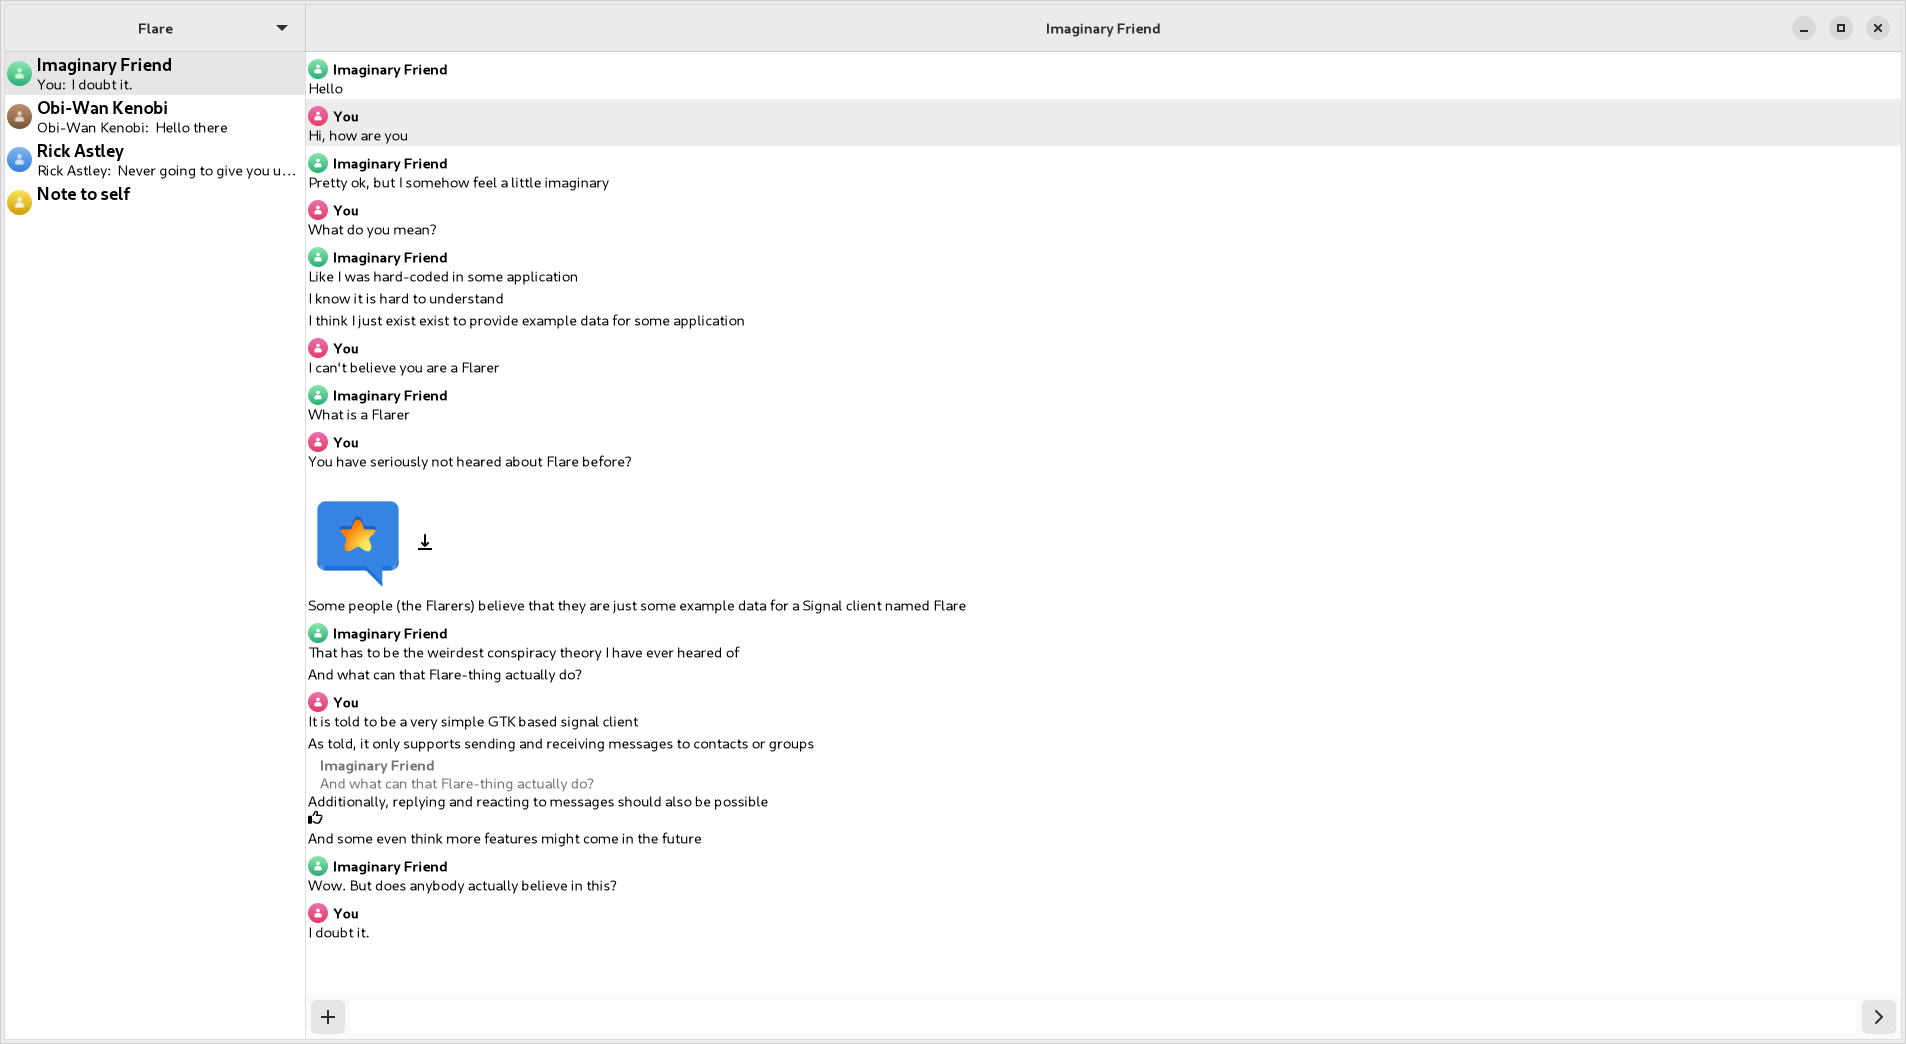
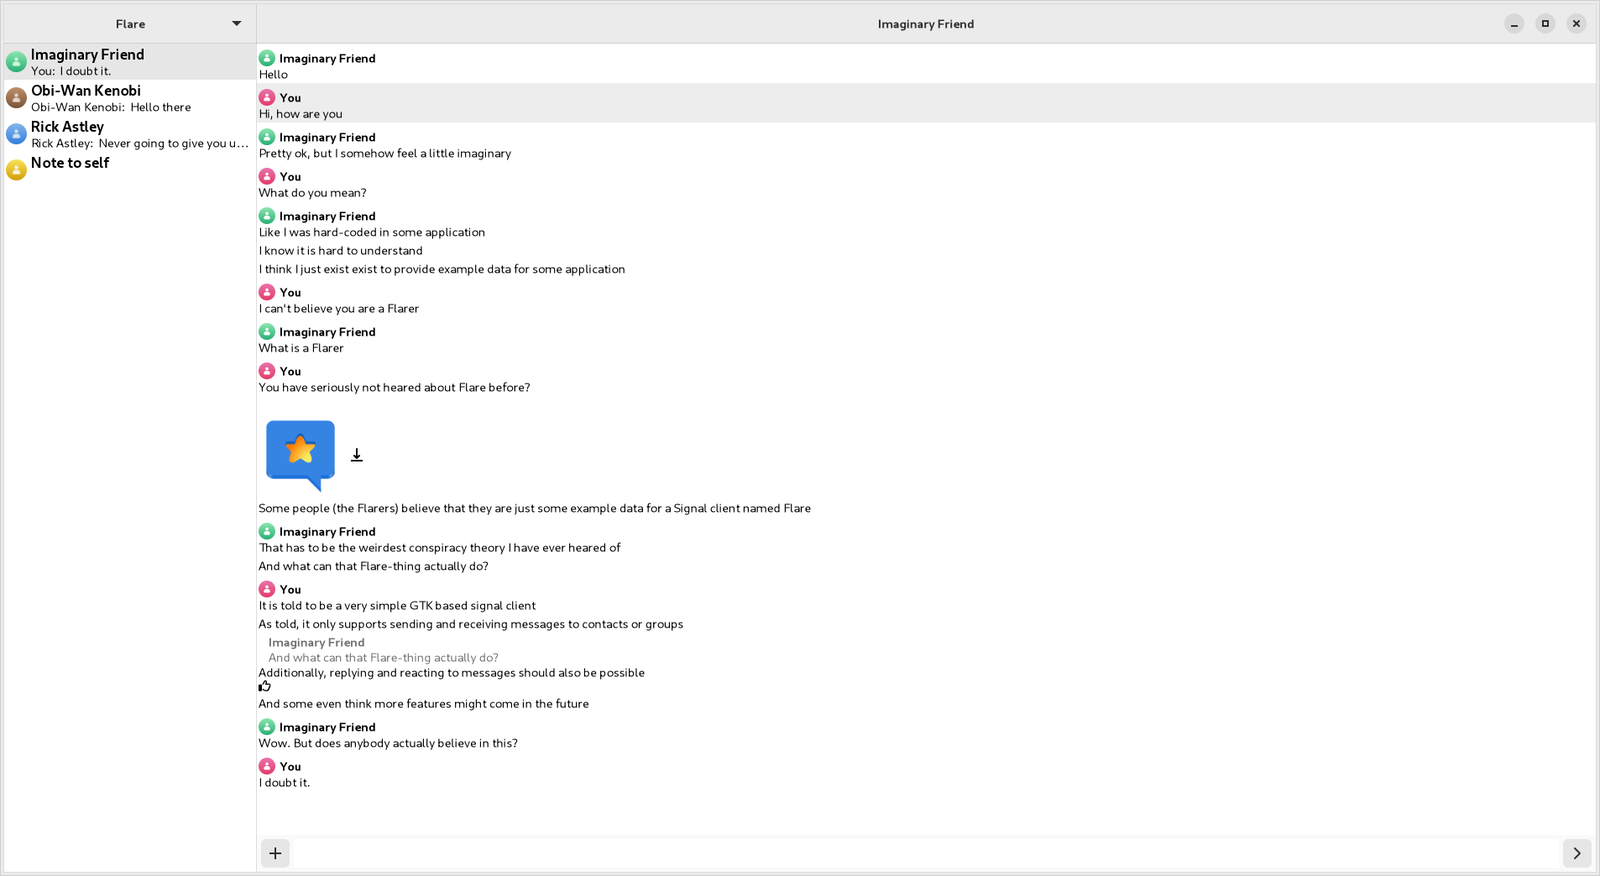
ver(0.3.3): New minor version

diff --git a/CHANGELOG.md b/CHANGELOG.md
@@ -6,6 +6,12 @@ and this project adheres to [Semantic Versioning](https://semver.org/spec/v2.0.0
 
 ## [Unreleased]
 
+## [0.3.3] - 2022-09-05
+
+### Added
+
+- Keyboard shortcuts
+
 ### Changed
 
 - Small UI updates
@@ -121,7 +127,8 @@ and this project adheres to [Semantic Versioning](https://semver.org/spec/v2.0.0
 - Fixed cargo clippy.
 - Updated presage to official repository.
 
-[Unreleased]: https://gitlab.com/Schmiddiii/flare/-/compare/0.3.2...master
+[Unreleased]: https://gitlab.com/Schmiddiii/flare/-/compare/0.3.3...master
+[0.3.3]: https://gitlab.com/Schmiddiii/flare/-/compare/0.3.2...0.3.3
 [0.3.2]: https://gitlab.com/Schmiddiii/flare/-/compare/0.3.1...0.3.2
 [0.3.1]: https://gitlab.com/Schmiddiii/flare/-/compare/0.3.0...0.3.1
 [0.3.0]: https://gitlab.com/Schmiddiii/flare/-/compare/0.2.1...0.3.0
